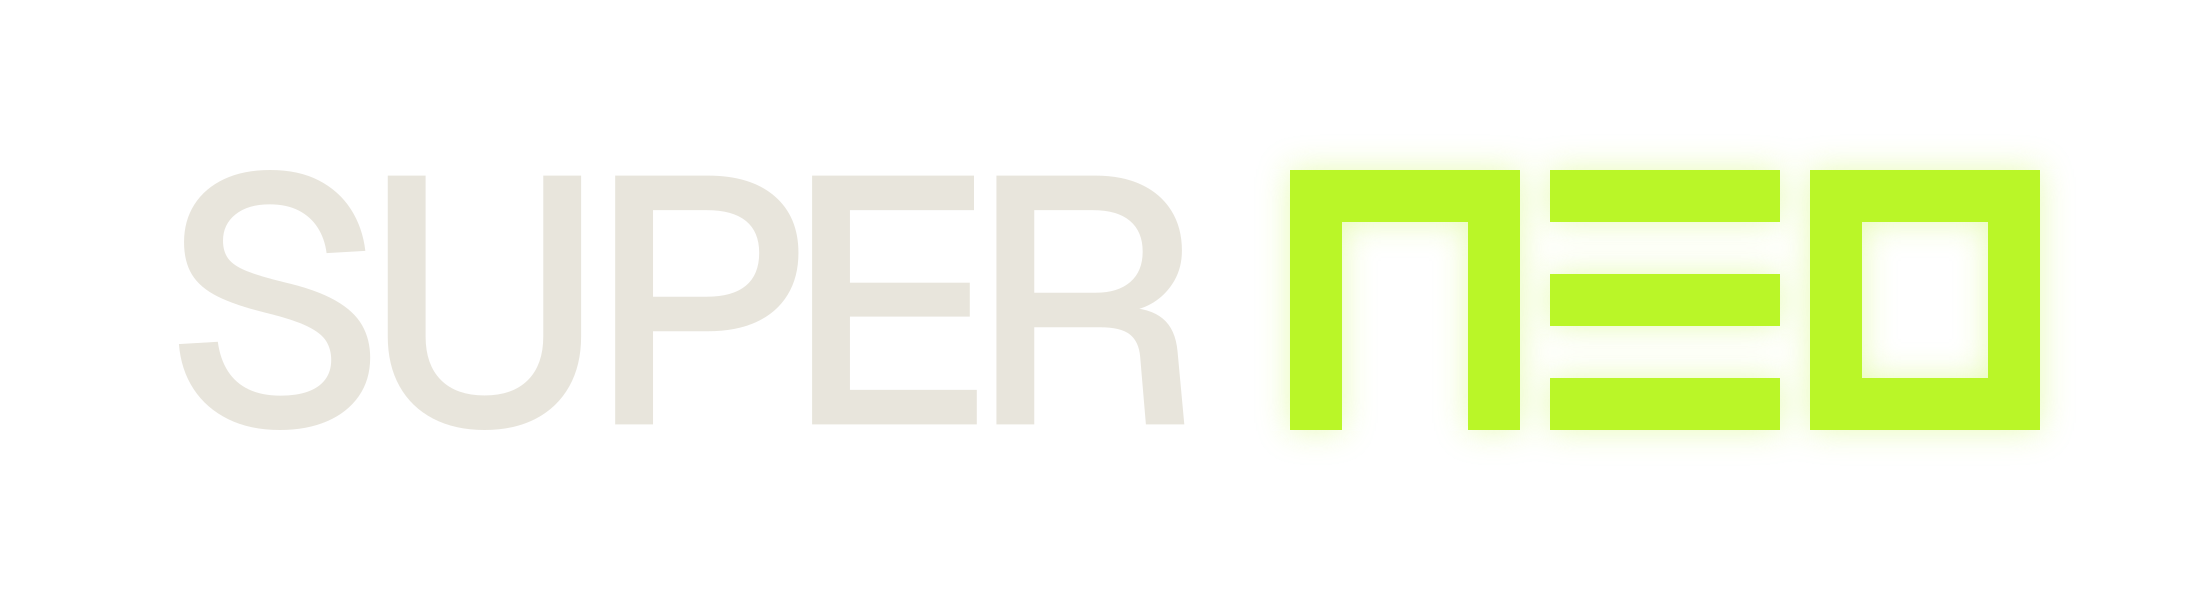
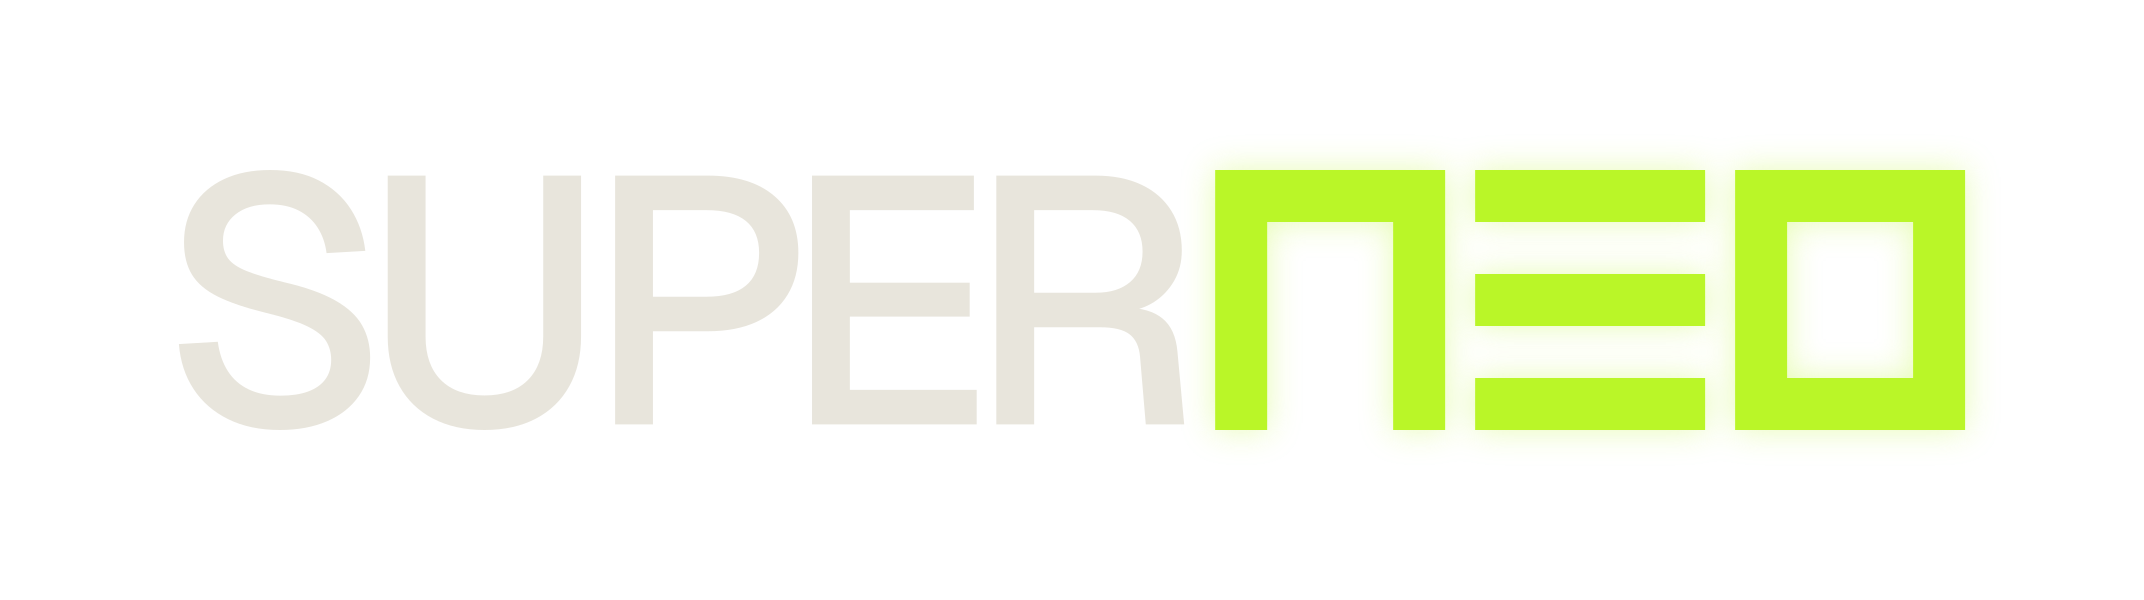
fix(brand): tighten superneo lockup spacing

Changed region(s): [[0.4375, 0.27, 0.7188, 0.72], [0.125, 0.3, 0.4062, 0.72], [0.7812, 0.27, 0.9375, 0.72]]

diff --git a/brand/build-superneo.py b/brand/build-superneo.py
@@ -1,5 +1,6 @@
 from pathlib import Path
 from tempfile import TemporaryDirectory
+from fontTools.pens.boundsPen import BoundsPen
 from fontTools.pens.svgPathPen import SVGPathPen
 from fontTools.ttLib import TTFont
 from fontTools.varLib.instancer import instantiateVariableFont
@@ -16,6 +17,12 @@ MASTER = BRAND / "superneo-rectangle.svg"
 COVER = BRAND / "superneo-x-cover.svg"
 TRACKING = -0.075
 INK_HEIGHT = 260
+GAP_RATIO = 0.1192
+FRAME_X = 160
+FRAME_HEIGHT = 600
+NEO_WIDTH = 750
+COVER_WIDTH = 1500
+COVER_HEIGHT = 500
 
 
 def run(*args):
@@ -47,18 +54,31 @@ with TemporaryDirectory() as directory:
     tracking = TRACKING * font["head"].unitsPerEm
     positions = []
     paths = []
+    bounds = []
     x = 0
     for index, item in enumerate(shaped):
-        positions.append(x + item["dx"])
+        position = x + item["dx"]
+        positions.append(position)
         glyph_name = font.getGlyphName(item["g"])
         pen = SVGPathPen(glyph_set)
         glyph_set[glyph_name].draw(pen)
         paths.append(compact(pen.getCommands()))
+        bounds_pen = BoundsPen(glyph_set)
+        glyph_set[glyph_name].draw(bounds_pen)
+        bounds.append((bounds_pen.bounds[0] + position, bounds_pen.bounds[2] + position))
         x += item["ax"]
         if index < len(shaped) - 1:
             x += tracking
     scale = INK_HEIGHT / 742
     baseline = 726 * scale
+    ink_left = min(bound[0] for bound in bounds) * scale
+    ink_right = max(bound[1] for bound in bounds) * scale
+    gap = INK_HEIGHT * GAP_RATIO
+    neo_translate = ink_right + gap
+    side_margin = FRAME_X + ink_left
+    master_width = FRAME_X + neo_translate + NEO_WIDTH + side_margin
+    cover_height = master_width * COVER_HEIGHT / COVER_WIDTH
+    cover_y = (FRAME_HEIGHT - cover_height) / 2
     path_lines = "\n".join(
         f'      <path d="{path}" transform="translate({position:g})"/>'
         for position, path in zip(positions, paths)
@@ -77,10 +97,22 @@ with TemporaryDirectory() as directory:
     master, replacements = pattern.subn(outlined, master, count=1)
     if replacements != 1:
         raise RuntimeError("SUPER artwork was not found")
+    master = re.sub(
+        r'width="[^"]+" height="600" viewBox="0 0 [^"]+"',
+        f'width="{master_width:.12f}" height="600" viewBox="0 0 {master_width:.12f} 600"',
+        master,
+        count=1,
+    )
+    master = re.sub(
+        r'<g transform="translate\([^)]* 0\)"><use href="#neo"',
+        f'<g transform="translate({neo_translate:.12f} 0)"><use href="#neo"',
+        master,
+        count=1,
+    )
     MASTER.write_text(master)
     cover = master.replace(
-        'width="2200" height="600" viewBox="0 0 2200 600"',
-        'width="1500" height="500" viewBox="0 -66.666666666667 2200 733.333333333333"',
+        f'width="{master_width:.12f}" height="600" viewBox="0 0 {master_width:.12f} 600"',
+        f'width="1500" height="500" viewBox="0 {cover_y:.12f} {master_width:.12f} {cover_height:.12f}"',
         1,
     ).replace(
         "SUPERNEO horizontal rectangular logo",
@@ -89,7 +121,10 @@ with TemporaryDirectory() as directory:
     )
     COVER.write_text(cover)
     shutil.copyfile(LICENSE, BRAND / "GEIST-LICENSE.txt")
-    exports = [(MASTER, "superneo-rectangle", 2200, 600), (COVER, "superneo-x-cover", 1500, 500)]
+    exports = [
+        (MASTER, "superneo-rectangle", round(master_width), FRAME_HEIGHT),
+        (COVER, "superneo-x-cover", COVER_WIDTH, COVER_HEIGHT),
+    ]
     for source, name, width, height in exports:
         png = BRAND / f"{name}.png"
         black = Path(directory) / f"{name}-black.png"

diff --git a/brand/README.md b/brand/README.md
@@ -4,6 +4,7 @@
 - JPEG cannot store transparency. Files ending in `-black.jpeg` are compatibility previews flattened on `#030403`.
 - SUPER is Geist Variable at weight 500, instanced before outlining, with `-0.075em` tracking between glyphs.
 - SUPER and NEO are vector geometry with no live text or font lookup.
+- The SUPER-to-NEO gap is `0.1192` of cap height: `30.992` at the `260`-pixel master cap height.
 - The dedicated `e` and the `e` inside NEO use the same `230 × 260` master geometry.
 - Master bar thickness: `52`; master gap: `52`.
 
@@ -11,14 +12,14 @@
 
 - `e-square.svg`: 1024 × 1024
 - `neo-square.svg`: 1024 × 1024
-- `superneo-rectangle.svg` and `.png`: 2200 × 600
-- `superneo-rectangle-black.jpeg`: 2200 × 600
+- `superneo-rectangle.svg`: 2144.215959210748 × 600
+- `superneo-rectangle.png` and `superneo-rectangle-black.jpeg`: 2144 × 600
 - `superneo-x-cover.svg` and `.png`: 1500 × 500
 - `superneo-x-cover-black.jpeg`: 1500 × 500
 
 ## Rebuild
 
-`build-superneo.py` instances `geist-latin-wght-normal.woff2` at weight 500 with fontTools `varLib.instancer`, shapes `SUPER` with HarfBuzz kerning, applies four `-75/1000 em` tracking adjustments, extracts the static glyph paths, and regenerates the vector and raster exports.
+`build-superneo.py` instances `geist-latin-wght-normal.woff2` at weight 500 with fontTools `varLib.instancer`, shapes `SUPER` with HarfBuzz kerning, applies four `-75/1000 em` tracking adjustments, extracts the static glyph paths, positions NEO from the outlined SUPER ink bound and target gap ratio, balances the side margins, and regenerates the vector and raster exports.
 
 The build requires fontTools with WOFF2 support, `hb-shape`, `rsvg-convert`, and `sips`. Install fontTools into a temporary virtual environment rather than adding it to the website runtime dependencies.
 
